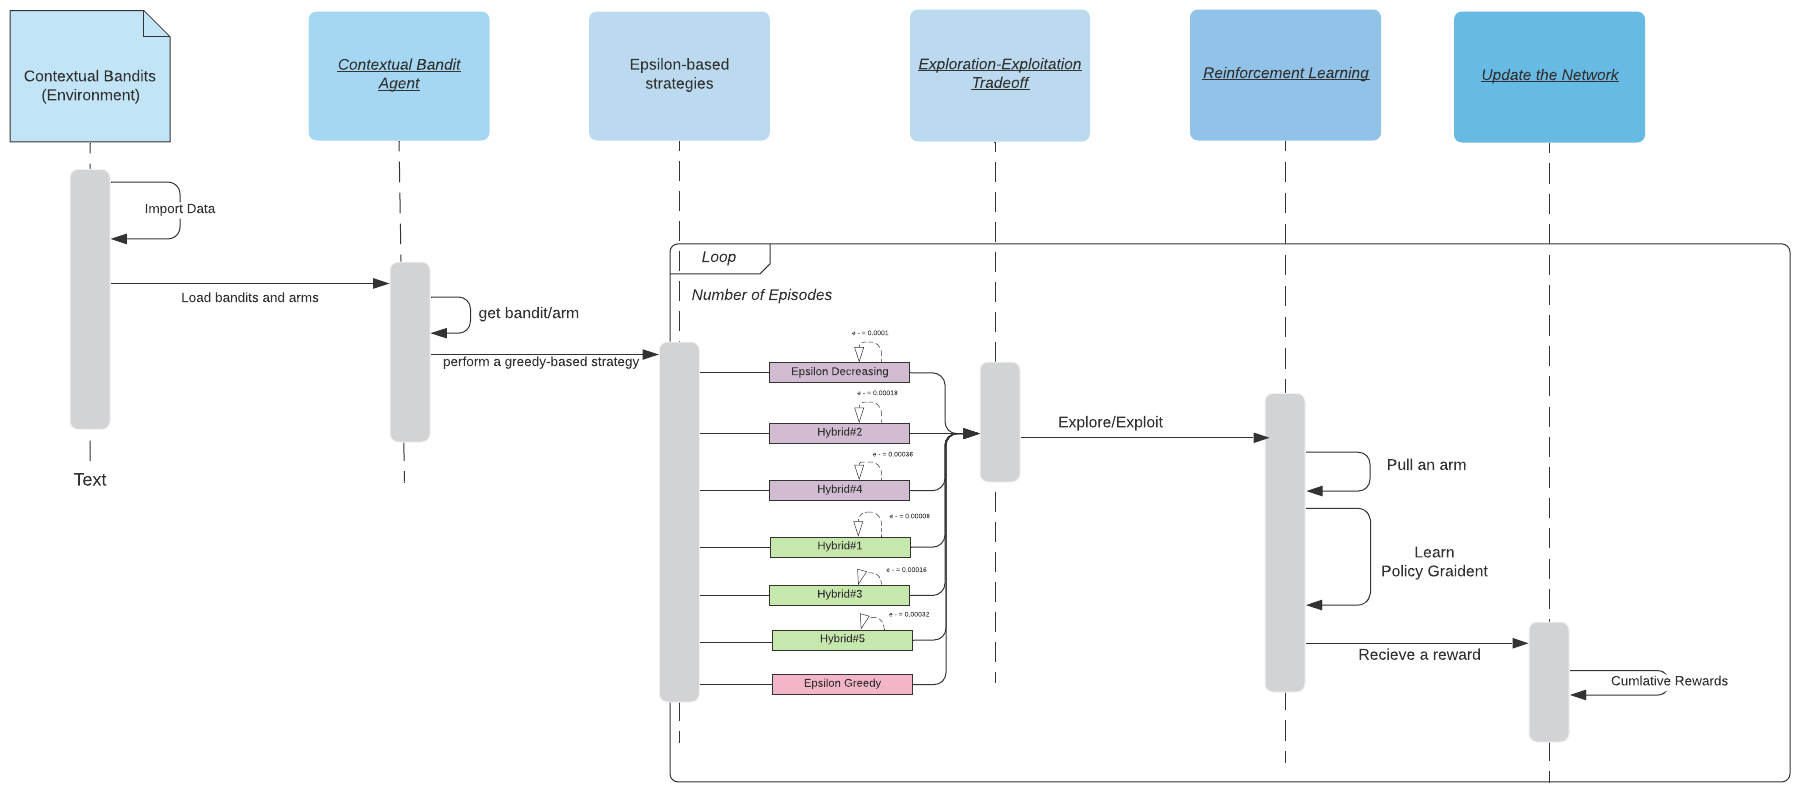
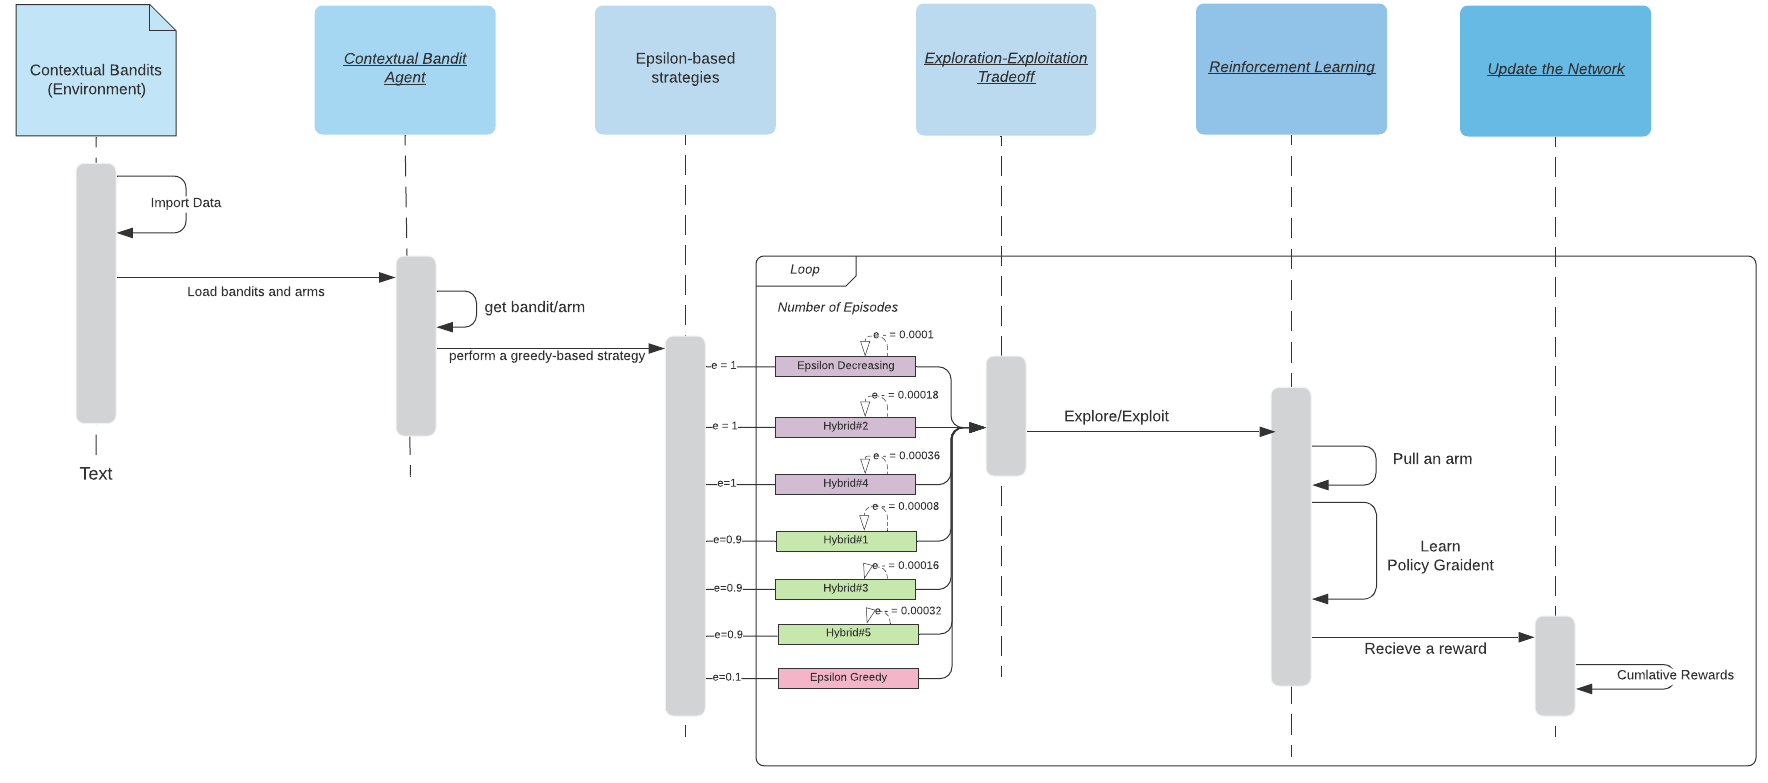
adding more stuff in readme.md

diff --git a/README.md b/README.md
@@ -6,7 +6,7 @@ We would solve contextual bandit problems, using a policy-gradient based reinfor
 
 In the experiment, we have 10,000 episodes and use the learning rate of 0.05. The epsilon is the probability of exploration.
 
-**Epsilon-Decreasing:** The experiment starts with pure exploration and epsilon is decreased to 0% in the end.
+**Epsilon-Decreasing:** The experiment starts with pure exploration and epsilon is decreased then becomes 0 at the end.
 
 **Epsilon-Greedy:** Epsilon is 10%. The probability is fixed.
 
@@ -25,6 +25,8 @@ All of the strategies are in the evaluation code. The reinforcement learning cod
 ## Table of contents
 * Requirements
 * Setup
+* Diagrams
+* Unit Tests
 * Instructions
 
 ## Requirements
@@ -47,6 +49,8 @@ conda install -c conda-forge tensorflow=1.14
 ```
 Note: It depends on your system. There are other commands that you can run with conda. Please read more about [Tensorflow Installment](https://anaconda.org/conda-forge/tensorflow). 
 
+## Diagrams
+
 
 ## Instructions
 
@@ -56,43 +60,35 @@ There are two options that you could download the whole code.
 
 Once you have the files in your system/computer, you should see there are three different datasets: [Ads Optimisation](https://github.com/ck2860/MidtermCode-CondyKan/blob/master/data/Ads_Optimisation.csv), [Mean Rewards Results](https://github.com/ck2860/MidtermCode-CondyKan/blob/master/data/MeanRewardsResult.csv), and [Tukey Data](https://github.com/ck2860/MidtermCode-CondyKan/blob/master/data/TukeyData.csv), which are already provided in the data folder. You will be using them for this code project so make sure they are in the right folder -- data. When you run the python codes, they should be able to find the datasets in the data folder. 
  
- The Ads Optimisation data set is obtained from [Kaggle](https://www.kaggle.com/akram24/ads-ctr-optimisation).  You will be using this for reinforcement learning and evaluations. For the evaluation, the ads are narrowed down to 5 ads so our reinforcement agent has five ads (Ad#0 - Ad#4) to select.
+The Ads Optimisation data set is obtained from [Kaggle](https://www.kaggle.com/akram24/ads-ctr-optimisation).  You
+will be using this for reinforcement learning and evaluations. For the evaluation, the ads are narrowed down to 5
+ads so our reinforcement agent has five ads (Ad#0 - Ad#4) to select.
  
 Both MeanRewardsResult and TukeyData datasets are the results from the evaluations with 20 random seeds (#1-#20). The Mean Rewards Result data is used for T-tests and ANOVA. Lastly, the TukeyData is used for the Tukey's Post Hoc Test. 
 
-*Please make sure they all are in the same directory so the codes
-would be able to recognize the data sets from the data folder. For this reinforcement learning, the data set can be used in online advertising to determine which is the best ad to show the user. It does not mean they would work with other bandit problems.*
+*Please make sure they all are in the same directory so the codes would be able to recognize the data sets from the data folder. For this reinforcement learning, the data set can be used in online advertising to determine which is the best ad to show the user. It does not mean they would work with other bandit problems.*
 
-We have classes in the folder that would be utilized in the running codes. [ContextualBandit](https://github.com/ck2860/MidtermCode-CondyKan/blob/master/ContextualBandit.py), [ContextualBanditAgent](https://github.com/ck2860/MidtermCode-CondyKan/blob/master/ContextualBanditAgent.py), and [GreedyStrategies](https://github.com/ck2860/MidtermCode-CondyKan/blob/master/GreedyStrategies.py) are for the evaluations. It would set contextual bandits up, run reinforcement learning, and use greedy-based strategies. Finally, [Plot](https://github.com/ck2860/MidtermCode-CondyKan/blob/master/Plot.py) is programmed to plot evaluation results. 
+We have classes and functions in the folder that would be utilized in the running codes. [addData](https://github.com/ck2860/MidtermCode-CondyKan/blob/master/addData.py), [ContextualBandit](https://github.com/ck2860/MidtermCode-CondyKan/blob/master/ContextualBandit.py), [ContextualBanditAgent](https://github.com/ck2860/MidtermCode-CondyKan/blob/master/ContextualBanditAgent.py), [InitializeTensor](https://github.com/ck2860/MidtermCode-CondyKan/blob/master/InitializeTensor.py) and [GreedyStrategies](https://github.com/ck2860/MidtermCode-CondyKan/blob/master/GreedyStrategies.py) are for the evaluations. It would import data, set contextual bandits up, initialize the network, run reinforcement learning, and test greedy-based strategies. Finally, [Plot](https://github.com/ck2860/MidtermCode-CondyKan/blob/master/Plot.py) is programmed to plot evaluation results. 
 
-You will be able to see five Pythons codes in the file, you could run them if you like! The figures for evaluations and the post hoc tests should be in pop-up windows. For evaluations, there are three Python program that you can run: [1trial](https://github.com/ck2860/MidtermCode-CondyKan/blob/master/1trial.py), [10trials](https://github.com/ck2860/MidtermCode-CondyKan/blob/master/10trials.py), and [20trials](https://github.com/ck2860/MidtermCode-CondyKan/blob/master/20trials.py). 1trial code runs one trial of evaluation. 10trials  code runs 10 trials of evaluation. Then 20trials code runs 20 trials of evaluation. You can evaluate by comparing strategies's mean rewards. Last two Python programs: [StatsTests](https://github.com/ck2860/MidtermCode-CondyKan/blob/master/StatsTests.py) and [Tukey](https://github.com/ck2860/MidtermCode-CondyKan/blob/master/Tukey.py) are used for statistical analysis. We analyze the results from the 20 trials evaluations.  You can perform T-tests and ANOVA by running StatsTest.py code. After narrowing them down and performing the Post Hoc test, you may see the differences occurred between greedy-based strategies by compiling the Tukey.py file. Please read [documentation](https://ck2860.github.io/MidtermCode-CondyKan/) for more details. 
+You have two compilable Pythons codes in the file, you could run them if you like! The figures for evaluations and the post hoc tests should be in pop-up windows. For evaluations, you may compile [Evaluation](https://github.com/ck2860/MidtermCode-CondyKan/blob/master/Evaluation.py) with your chosen number of trials. For statistical analysis, we analyze the results from the 20 trials evaluations. You can perform T-tests, ANOVA, and Tukey Post Hoc tests by compiling [StatsTests](https://github.com/ck2860/MidtermCode-CondyKan/blob/master/StatsTests.py) and [Tukey](https://github.com/ck2860/MidtermCode-CondyKan/blob/master/Tukey.py) After narrowing them down and performing the Post Hoc test, you may see the differences occurred between greedy-based strategies. Please read [documentation](https://ck2860.github.io/MidtermCode-CondyKan/) for more details. 
 
 Please open your Anaconda Prompt and go to the directory where you downloaded the project code. Please read the directions below before you run the code. Note that the ```$``` is not part of the command.
 
+If you want to run an evaluation of greedy-based strategies with your chosen number of trials. There will be two arguments in your command line: the first one is the name of python file (Evaluation.py) and second one is the number of trials. For example, if you want to do 5 trials (it may take up to 5 minutes), you can run the line below: 
+```
+$ python Evaluation.py 5
+```
+*Note that if you decide to run more than one trial, it may take longer. The results may be different due to number of trials. *
 
-If you want to run one trial of greedy-based strategies of your chosen random seed. There will be two arguments in your command line: the first one is the name of python file (1trial.py) and second one is the random seed number. For example, if you want to run it with a random seed of 5 (it may take up to 2 minutes), you can run the line below: 
-```
-$ python 1trial.py 5
-```
-*Note that if you use a different random seed for 1trial file, the evaluation results may be different due to reinforcement learning and strategies.*
-
-
-If you want to run 10 trials of greedy-based strategies with 10 different random seeds, you will only need to put 10trials.py as a command-line argument (it may take up to 10 minutes). You should compile it by: 
-```
-$ python 10trials.py
-```
-If you want to run 20 trials of greedy-based strategies with 20 different random seeds, you will only need to put 20trials.py as a command-line argument (it may take up to 20 minutes). Your command line should be:
-```
-$ python 20trials.py
-```
-For t-tests and ANOVA, you will only have one command-line argument: StatTests.py. You would want to run by:
+For statistics tests, you will only have one command-line argument: StatTests.py. You would want to run by:
 ```
 $ python StatsTests.py
 ```
-Lastly, you can run a Tukey's Post Hoc Test with one command-line argument (Tukey.py) by:
-```
-$ python Tukey.py
-```
+
+## Unit Tests
+
+
+
 
 If you have any questions, please feel free to email me at ck2860@rit.edu. 
 
